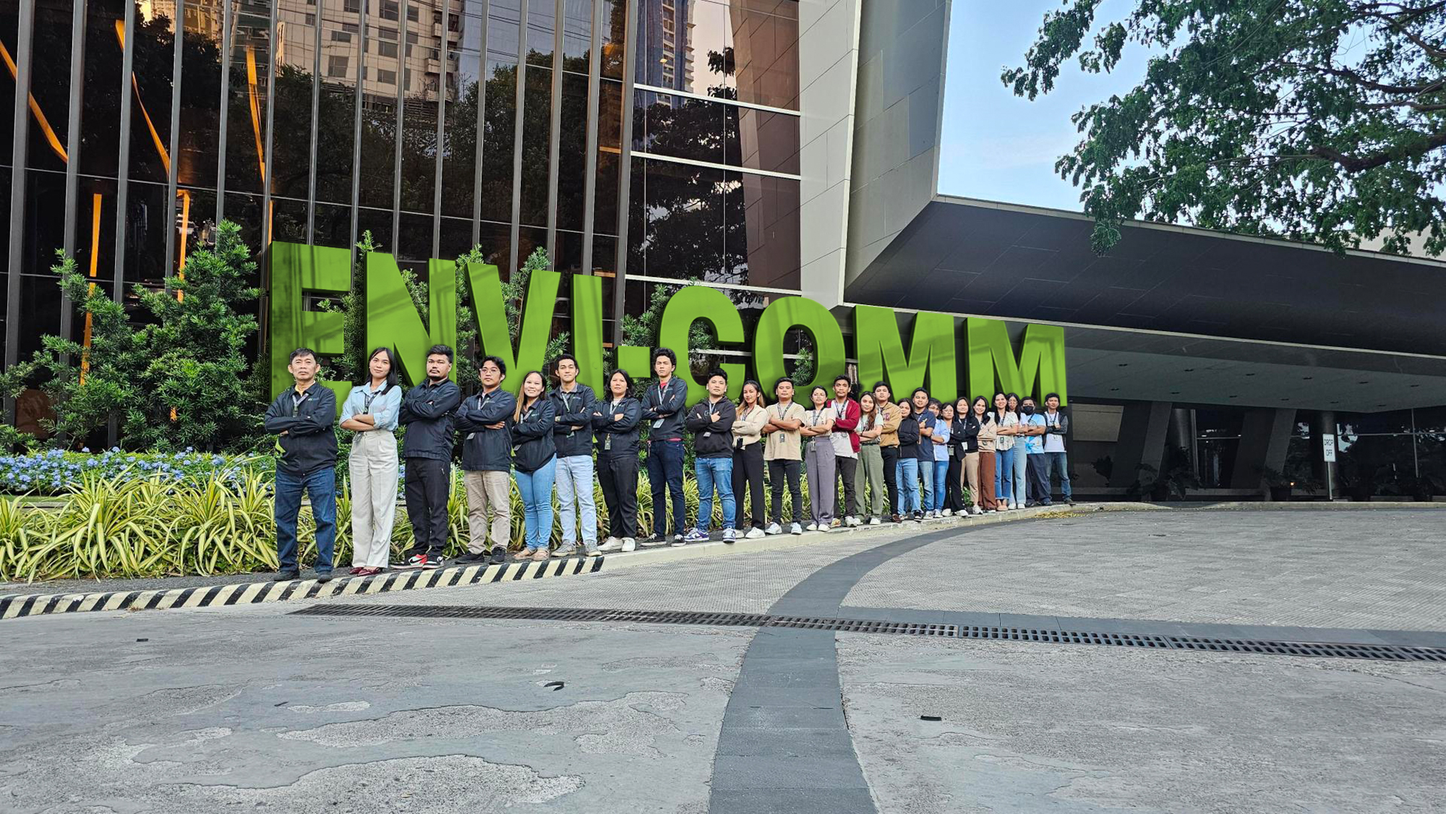
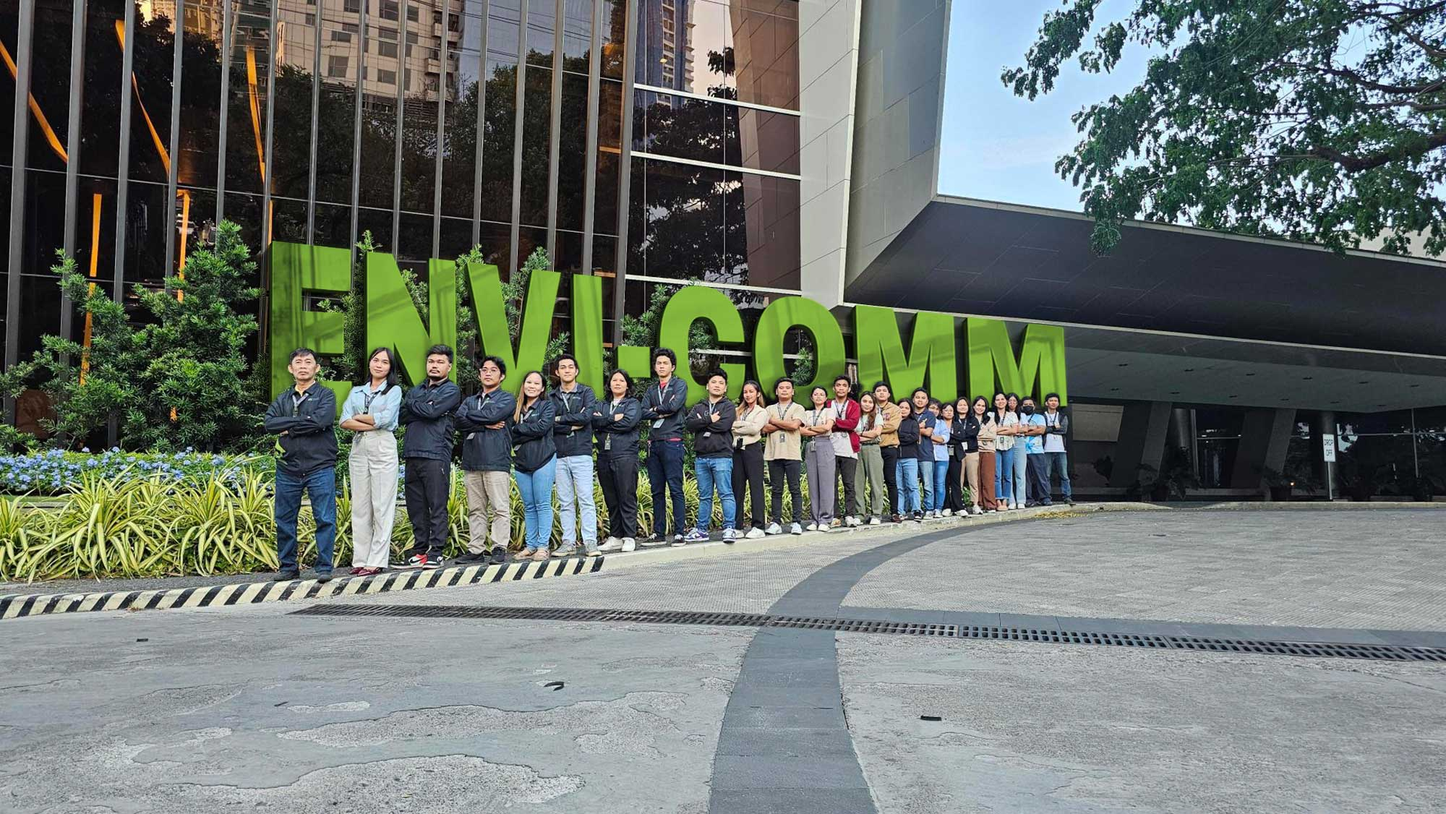
update consultation

diff --git a/components/sections/Home8/Section9.vue b/components/sections/Home8/Section9.vue
@@ -1,6 +1,6 @@
 <template>
     <section
-        class="relative bg-[url('/assets/images/main-imgs/consult.jpg')] bg-cover bg-center bg-fixed flex justify-center items-center px-10 md:px-20 py-40 md:py-80"
+        class="relative bg-[url('/assets/images/main-imgs/consult.jpg')] bg-cover bg-center bg-fixed flex justify-center items-center px-10 md:px-20 h-screen"
     >
         <div class="absolute inset-0 bg-black opacity-50 z-1"></div>
         <div class="text-center z-10">
